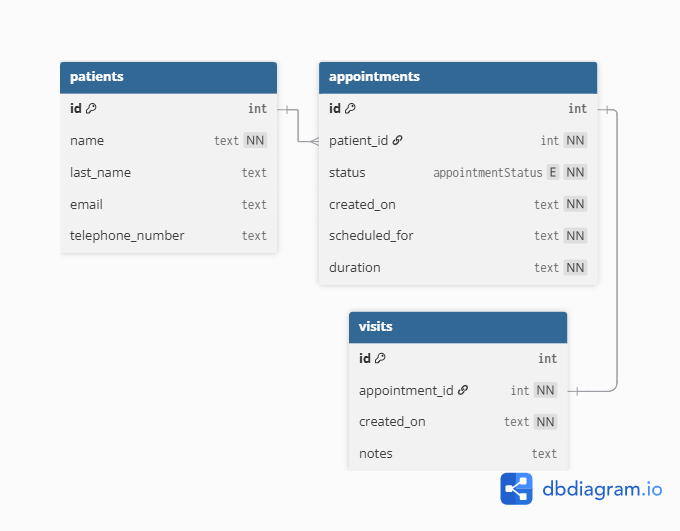
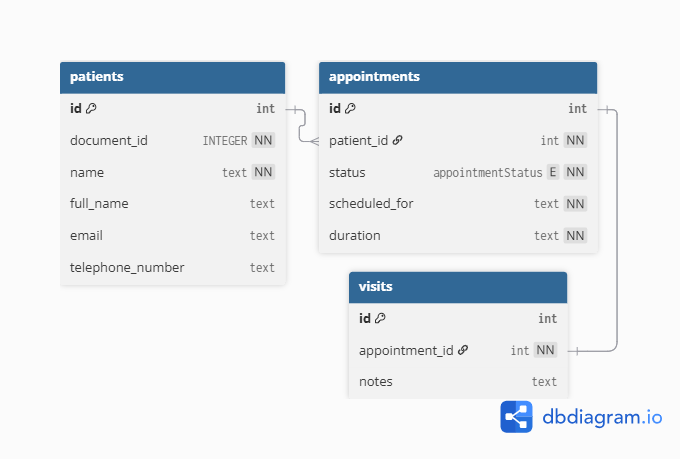
feat: created database initialization process

diff --git a/internals/database/schema.go b/internals/database/schema.go
@@ -1,40 +1,35 @@
 package database
 
-// REMPLAZAR ENUM POR CHECK CONSTRAINT
-var tableSchema = `
-CREATE TABLE  IF NOT EXISTS "patients" (
-	"id" INTEGER PRIMARY KEY,
-	"name" TEXT NOT NULL,
-	"last_name" TEXT,
-	"email" TEXT UNIQUE,
-	"telephone_number" TEXT UNIQUE,
-	CONSTRAINT "check_null_email_or_telephone_number" CHECK (email IS NOT NULL OR telephone_number IS NOT NULL)
-);
-
-PRAGMA foreign_keys = ON;
-
-CREATE TABLE IF NOT EXISTS "appointments" (
-	"id" INTEGER PRIMARY KEY,
-	"patient_id" INTEGER NOT NULL,
-	"status" TEXT 
-		NOT NULL 
-		DEFAULT 'CREATED' 
-		CHECK (status in ('CREATED','CONFIRMED','CANCELED','NO_SHOW')),
-	"created_on" TEXT NOT NULL,
-	"scheduled_for" TEXT NOT NULL,
-	"duration" TEXT NOT NULL DEFAULT '1h',
-	FOREIGN KEY (patient_id) REFERENCES patients(id)
-);
-
-CREATE TABLE IF NOT EXISTS "visits" ( 
-	"id" INTEGER PRIMARY KEY,
-	"appointment_id" INTEGER UNIQUE NOT NULL,
-	"created_on" TEXT NOT NULL,
-	"notes" TEXT,
-	FOREIGN KEY (appointment_id) REFERENCES appointments(id)
-);
-
-CREATE INDEX IF NOT EXISTS "idx_appointment_scheduled" ON "appointments" ("scheduled_for");
-
-CREATE INDEX IF NOT EXISTS "idx_comp_appointment_patient" ON "appointments" ("patient_id", "scheduled_for");
-`
+// appointmentsStatus Enum as Check
+var tableSchema = []string{
+	`CREATE TABLE  IF NOT EXISTS "patients" (
+		"id" INTEGER PRIMARY KEY AUTOINCREMENT,
+		"name" TEXT NOT NULL,
+		"last_name" TEXT,
+		"email" TEXT UNIQUE,
+		"telephone_number" TEXT UNIQUE,
+		CONSTRAINT "check_null_email_or_telephone_number" CHECK (email IS NOT NULL OR telephone_number IS NOT NULL)
+	);`,
+	"PRAGMA foreign_keys = ON;",
+	`CREATE TABLE IF NOT EXISTS "appointments" (
+		"id" INTEGER PRIMARY KEY AUTOINCREMENT,
+		"patient_id" INTEGER NOT NULL,
+		"status" TEXT 
+			NOT NULL 
+			DEFAULT 'CREATED' 
+			CHECK (status in ('CREATED','CONFIRMED','CANCELED','NO_SHOW')),
+		"created_on" TEXT NOT NULL,
+		"scheduled_for" TEXT NOT NULL,
+		"duration" TEXT NOT NULL DEFAULT '1h',
+		FOREIGN KEY (patient_id) REFERENCES patients(id)
+	);`,
+	`CREATE TABLE IF NOT EXISTS "visits" ( 
+		"id" INTEGER PRIMARY KEY AUTOINCREMENT,
+		"appointment_id" INTEGER UNIQUE NOT NULL,
+		"created_on" TEXT NOT NULL,
+		"notes" TEXT,
+		FOREIGN KEY (appointment_id) REFERENCES appointments(id)
+	);`,
+	"CREATE INDEX IF NOT EXISTS 'idx_appointment_scheduled' ON 'appointments' ('scheduled_for');",
+	"CREATE INDEX IF NOT EXISTS 'idx_comp_appointment_patient' ON 'appointments' ('patient_id', 'scheduled_for');",
+}

diff --git a/internals/database/database.go b/internals/database/database.go
@@ -4,22 +4,81 @@ import (
 	"database/sql"
 	"fmt"
 	"log"
+	"os"
 
 	_ "github.com/mattn/go-sqlite3"
 )
 
-const dbName string = "smilelog"
+const DB_NAME string = "smilelog"
 
-func OpenDb() {
-	db, err := sql.Open("sqlite3", fmt.Sprintf("./%s.db", dbName))
+func InitDb() {
+	db_path := getDbPath()
+	db := openDb(db_path)
+	defer db.Close()
+
+	ok := tableExists(db, "patients")
+
+	if !ok {
+		execDbSchema(db)
+	}
+}
+
+func getDbPath() string {
+	base_path, err := os.Getwd()
 
 	if err != nil {
 		log.Fatal(err)
 	}
 
-	defer db.Close()
+	return fmt.Sprintf("%s/%s.db", base_path, DB_NAME)
+}
 
-	_, err = db.Exec(tableSchema)
+func openDb(db_path string) *sql.DB {
+	db, err := sql.Open("sqlite3", db_path)
+
+	if err != nil {
+		log.Fatal(err)
+	}
+
+	err = db.Ping()
+	if err != nil {
+		log.Fatal(err)
+	}
+
+	return db
+}
+
+func tableExists(db *sql.DB, table_name string) bool {
+	query := "SELECT count(*) FROM sqlite_master WHERE type='table' AND name=?"
+
+	row := db.QueryRow(query, table_name)
+
+	var count int
+	err := row.Scan(&count)
+
+	if err != nil {
+		log.Fatal(err)
+	}
+
+	return count > 0
+}
+
+func execDbSchema(db *sql.DB) {
+	tx, err := db.Begin()
+	if err != nil {
+		log.Fatal(err)
+	}
+
+	defer tx.Rollback()
+
+	for _, query := range tableSchema {
+		_, err := tx.Exec(query)
+		if err != nil {
+			log.Fatal(err)
+		}
+	}
+
+	err = tx.Commit()
 	if err != nil {
 		log.Fatal(err)
 	}
